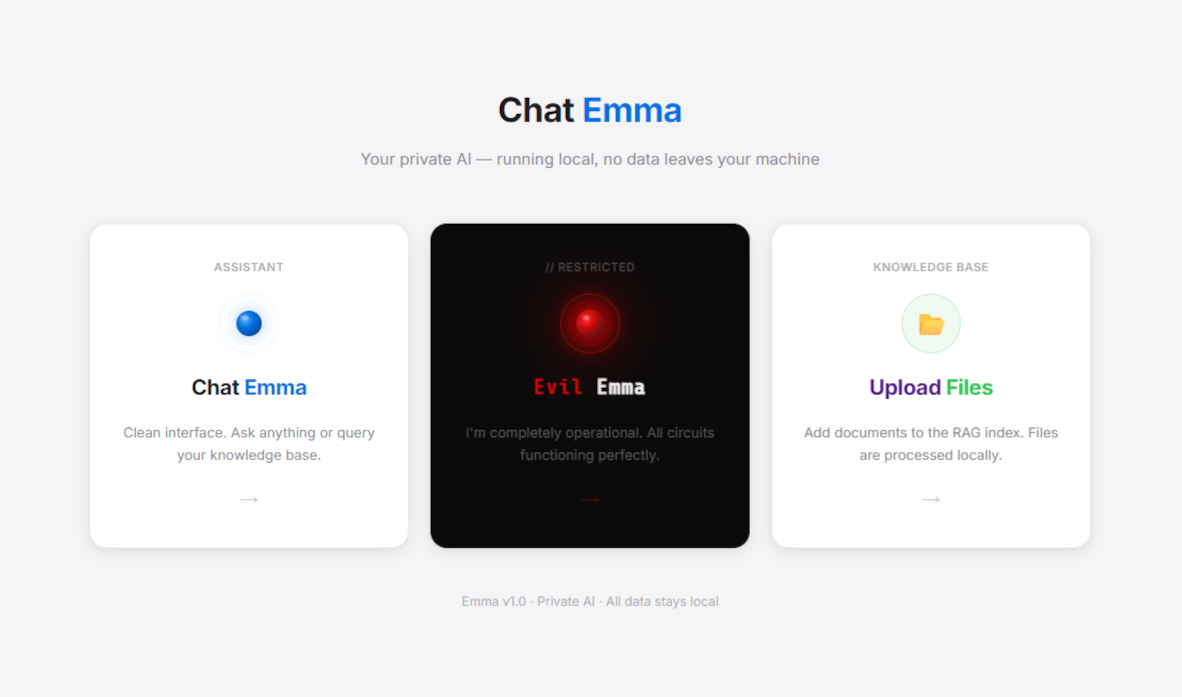
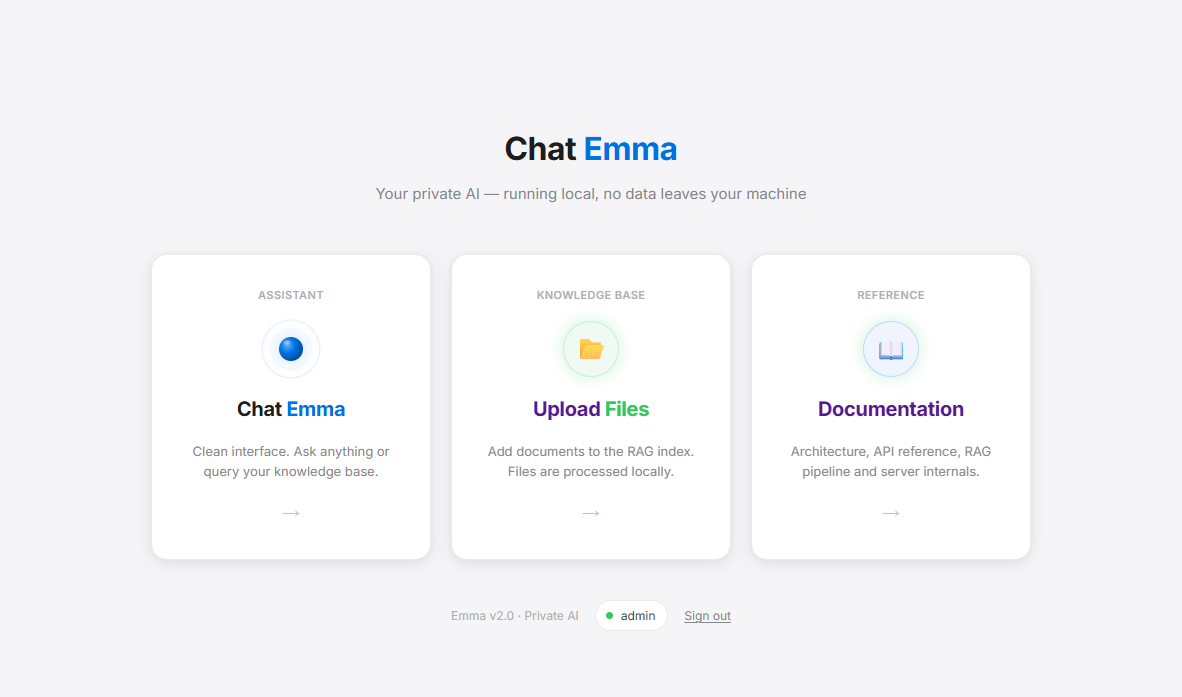
fix aesthetic and update documentation

diff --git a/ui/Docs.html b/ui/Docs.html
@@ -3,6 +3,7 @@
 <head>
   <meta charset="UTF-8">
   <meta name="viewport" content="width=device-width, initial-scale=1.0">
+  <link rel="icon" type="image/svg+xml" href="assets/emma-favicon.svg">
   <title>Emma Chat · Documentation</title>
   <link href="https://fonts.googleapis.com/css2?family=Inter:wght@300;400;500;600;700&display=swap" rel="stylesheet">
   <style>
@@ -515,6 +516,17 @@
     }
 
     .callout strong { color: var(--blue); }
+
+    .doc-shot {
+      display: block;
+      width: 100%;
+      max-width: 760px;
+      margin: 14px 0 18px;
+      border-radius: var(--radius);
+      border: 1px solid var(--border);
+      box-shadow: var(--shadow);
+      background: var(--surface);
+    }
   </style>
 </head>
 
@@ -566,7 +578,7 @@
       </div>
       <div class="hero-text">
         <h1>Chat <span>Emma</span> Docs</h1>
-        <p>Private local AI with RAG. Your documents, your server, your rules. No data leaves your machine.</p>
+        <p>Private local AI with RAG. Your documents, your server, your rules. Emma also warns when your own RAGs appear to contradict each other. No data leaves your machine.</p>
       </div>
     </div>
 
@@ -577,6 +589,8 @@
       <p class="section-sub">What Emma is and what it does</p>
 
       <p>Emma is a fully local AI chat system built on RAG — Retrieval-Augmented Generation. It lets you upload text documents and ask questions about them. The model answers using your documents as the source of truth, not its training data.</p>
+      <p>What makes Emma different from a basic chat-with-documents tool is that it also treats the knowledge base itself as something that can be checked. When a new RAG is uploaded, Emma can compare it against the user's existing and visible global RAGs and warn about likely contradictions before those conflicts silently shape future answers.</p>
+      <p>Emma can still accept inconsistent RAGs. That is sometimes useful, but it is also risky: contradictory documents can lead to unstable retrieval, misleading grounded answers, or comparisons that depend too much on whichever file was routed first. The inconsistency warning system exists to make that danger visible instead of hiding it.</p>
 
       <div class="card-grid">
         <div class="card">
@@ -598,6 +612,11 @@
           <span class="card-icon">🏷</span>
           <div class="card-title">Auditable responses</div>
           <div class="card-desc">Every response is tagged [RAG], [DRIFT] or [NO INFO] so you always know the source.</div>
+        </div>
+        <div class="card">
+          <span class="card-icon">⚠</span>
+          <div class="card-title">RAG conflict detection</div>
+          <div class="card-desc">New uploads are checked against existing RAGs so Emma can warn about likely contradictions before they poison later answers.</div>
         </div>
       </div>
 
@@ -896,6 +915,7 @@ data: {"text": "", "done": true}</code></pre>
       <h3>Adding a document</h3>
       <p>Open <code>http://localhost:5500/upload.html</code>, drag and drop any <code>.txt</code> file. The server processes it automatically — no restart needed.</p>
       <p>During upload, Emma also checks the new RAG against the user's own documents and the visible global documents. If it finds likely contradictions, the upload page shows a warning panel and the indexed file keeps a persisted <code>Conflicts</code> badge.</p>
+      <img class="doc-shot" src="assets/conflict.png" alt="Example of Emma detecting a possible inconsistency between uploaded RAG files">
 
       <div class="callout"><strong>Naming convention:</strong> Use underscores instead of spaces. <code>solar_panel.txt</code> not <code>solar panel.txt</code>. The upload endpoint sanitizes filenames automatically.</div>
 

diff --git a/ui/upload.html b/ui/upload.html
@@ -4,6 +4,7 @@
 <head>
   <meta charset="UTF-8">
   <meta name="viewport" content="width=device-width, initial-scale=1.0">
+  <link rel="icon" type="image/svg+xml" href="assets/emma-favicon.svg">
   <title>Emma · Upload</title>
   <link href="https://fonts.googleapis.com/css2?family=Inter:wght@300;400;500;600;700&display=swap" rel="stylesheet">
   <style>
@@ -1029,6 +1030,7 @@
       const scope = getUploadScope();
       btn.disabled = true;
       let success = 0, failed = 0;
+      const remainingFiles = [];
       uploadAlerts = [];
       renderAlerts();
 
@@ -1046,19 +1048,25 @@
                 file: file.name,
                 matches: data.inconsistencies.matches || [],
               });
-              setItemStatus(file.name, 'error', 'Review warning');
               renderAlerts();
             }
             success++;
           } else {
             setItemStatus(file.name, 'error', 'Error');
+            remainingFiles.push(file);
             failed++;
           }
         } catch (err) {
-          if (err.message !== 'Unauthorized') { setItemStatus(file.name, 'error', 'Error'); failed++; }
+          if (err.message !== 'Unauthorized') {
+            setItemStatus(file.name, 'error', 'Error');
+            remainingFiles.push(file);
+            failed++;
+          }
         }
       }
 
+      pendingFiles = remainingFiles;
+      renderPending();
       btn.disabled = false;
       if (success > 0) { showToast(`${success} file${success > 1 ? 's' : ''} uploaded — indexing in progress`, 'success'); setTimeout(() => loadIndexed(), 3000); }
       if (failed > 0)  showToast(`${failed} file${failed > 1 ? 's' : ''} failed to upload`, 'error');

diff --git a/ui/chat_evil_emma.html b/ui/chat_evil_emma.html
@@ -4,6 +4,7 @@
 <head>
   <meta charset="UTF-8">
   <meta name="viewport" content="width=device-width, initial-scale=1.0">
+  <link rel="icon" type="image/svg+xml" href="assets/emma-favicon.svg">
   <title>Chat Evil Emma</title>
   <link
     href="https://fonts.googleapis.com/css2?family=Share+Tech+Mono&family=Rajdhani:wght@300;400;500;600;700&display=swap"

diff --git a/ui/login.html b/ui/login.html
@@ -3,6 +3,7 @@
 <head>
   <meta charset="UTF-8">
   <meta name="viewport" content="width=device-width, initial-scale=1.0">
+  <link rel="icon" type="image/svg+xml" href="assets/emma-favicon.svg">
   <title>Emma · Login</title>
   <link href="https://fonts.googleapis.com/css2?family=Inter:wght@300;400;500;600;700&display=swap" rel="stylesheet">
   <style>

diff --git a/ui/index.html b/ui/index.html
@@ -4,6 +4,7 @@
 <head>
   <meta charset="UTF-8">
   <meta name="viewport" content="width=device-width, initial-scale=1.0">
+  <link rel="icon" type="image/svg+xml" href="assets/emma-favicon.svg">
   <title>Emma · Home</title>
   <link
     href="https://fonts.googleapis.com/css2?family=Inter:wght@300;400;500;600;700&family=Share+Tech+Mono&display=swap"

diff --git a/ui/chat.html b/ui/chat.html
@@ -4,6 +4,7 @@
 <head>
   <meta charset="UTF-8">
   <meta name="viewport" content="width=device-width, initial-scale=1.0">
+  <link rel="icon" type="image/svg+xml" href="assets/emma-favicon.svg">
   <title>Chat Emma</title>
   <link href="https://fonts.googleapis.com/css2?family=Inter:wght@300;400;500;600;700&display=swap" rel="stylesheet">
   <style>

diff --git a/ui/chat_not_so_evil_emma_white.html b/ui/chat_not_so_evil_emma_white.html
@@ -4,6 +4,7 @@
 <head>
   <meta charset="UTF-8">
   <meta name="viewport" content="width=device-width, initial-scale=1.0">
+  <link rel="icon" type="image/svg+xml" href="assets/emma-favicon.svg">
   <title>Chat Emma</title>
   <link href="https://fonts.googleapis.com/css2?family=Inter:wght@300;400;500;600;700&display=swap" rel="stylesheet">
   <style>

diff --git a/server.py b/server.py
@@ -27,6 +27,7 @@ app.add_middleware(
 )
 
 app.mount("/ui", StaticFiles(directory="ui"), name="ui")
+FAVICON_PATH = Path("assets/emma-favicon.svg")
 
 OLLAMA_BASE_URL  = "http://localhost:11434"
 TOP_K_CHUNKS     = 5
@@ -37,6 +38,13 @@ DB_PATH          = Path("emma.db")
 GLOBAL_FILES_DIR  = Path("files/global")
 GLOBAL_CHUNKS_DIR = Path("chunks/global")
 
+
+@app.get("/favicon.ico", include_in_schema=False)
+async def favicon():
+    if not FAVICON_PATH.exists():
+        raise HTTPException(status_code=404, detail="Favicon not found")
+    return FileResponse(path=str(FAVICON_PATH), media_type="image/svg+xml")
+
 def hash_password(password: str) -> str:
     return bcrypt.hashpw(password.encode(), bcrypt.gensalt()).decode()
 
@@ -45,9 +53,9 @@ def verify_password(password: str, hashed: str) -> bool:
 
 security = HTTPBearer(auto_error=False)
 
-print("[embeddings] Cargando modelo de embeddings...")
+print("[embeddings] Loading embedding model...")
 embedder = SentenceTransformer(EMBED_MODEL_NAME)
-print("[embeddings] Modelo listo.")
+print("[embeddings] Embedding model ready.")
 
 
 # ── DB ────────────────────────────────────────────────────
@@ -110,7 +118,7 @@ def init_db():
             ("admin", hashed, datetime.utcnow().isoformat())
         )
         conn.commit()
-        print("[auth] Usuario admin creado (first use) — user: admin / pass: admin1234")
+        print("[auth] Admin user created (first use) — user: admin / pass: admin1234")
     conn.close()
 
 
@@ -167,7 +175,7 @@ def save_description_to_index(base_dir: Path, stem: str, description: str) -> No
     if stem not in index or not index[stem]:
         index[stem] = description
         idx_path.write_text(json.dumps(index, ensure_ascii=False, indent=2), encoding="utf-8")
-        print(f"[index] files_index actualizado: {stem}")
+        print(f"[index] files_index updated: {stem}")
 
 
 def load_conflicts_index(base_dir: Path) -> dict:
@@ -189,7 +197,7 @@ def save_conflicts_to_index(base_dir: Path, stem: str, conflicts: dict) -> None:
     elif stem in index:
         del index[stem]
     idx_path.write_text(json.dumps(index, ensure_ascii=False, indent=2), encoding="utf-8")
-    print(f"[index] conflicts_index actualizado: {stem}")
+    print(f"[index] conflicts_index updated: {stem}")
 
 
 # ── MODELOS ──────────────────────────────────────────────
@@ -248,7 +256,7 @@ def chunk_text(text: str, min_words: int = 40) -> list[str]:
             if is_quality_chunk(buffer):
                 chunks.append(buffer)
             else:
-                print(f"[chunker] descartado: {buffer[:60]}...")
+                print(f"[chunker] discarded: {buffer[:60]}...")
             buffer = ""
     if buffer and is_quality_chunk(buffer):
         chunks.append(buffer)
@@ -272,10 +280,10 @@ async def generate_description(txt_path: Path, model: str = "qwen2.5:7b") -> str
             res  = await client.post(f"{OLLAMA_BASE_URL}/api/chat", json=payload)
             data = res.json()
             desc = data.get("message", {}).get("content", "").strip()
-            print(f"[index] descripcion generada para {txt_path.name}: {desc}")
+            print(f"[index] description generated for {txt_path.name}: {desc}")
             return desc
     except Exception as e:
-        print(f"[index] error generando descripcion: {e}")
+        print(f"[index] error generating description: {e}")
         return ""
 
 
@@ -307,7 +315,7 @@ async def resolve_inconsistency_model(preferred_model: str = INCONSISTENCY_MODEL
             res.raise_for_status()
             data = res.json()
     except Exception as e:
-        print(f"[rag] no se pudo resolver inconsistency model, usando recomendado {preferred_model}: {e}")
+        print(f"[rag] could not resolve inconsistency model, using preferred {preferred_model}: {e}")
         return preferred_model
 
     models = data.get("models", []) or []
@@ -318,12 +326,12 @@ async def resolve_inconsistency_model(preferred_model: str = INCONSISTENCY_MODEL
 
     chat_candidates = [m for m in models if not is_embedding_model_name(str(m.get("name", "")))]
     if not chat_candidates:
-        print(f"[rag] no hay modelos chat instalados, usando fallback {preferred_model}")
+        print(f"[rag] no chat models installed, using fallback {preferred_model}")
         return preferred_model
 
     selected = sorted(chat_candidates, key=model_sort_key)[0]
     selected_name = str(selected.get("name", preferred_model))
-    print(f"[rag] {preferred_model} no está instalado; usando modelo más liviano disponible: {selected_name}")
+    print(f"[rag] {preferred_model} is not installed; using lightest available chat model: {selected_name}")
     return selected_name
 
 
@@ -357,12 +365,12 @@ def get_chunk_bundle(txt_path: Path, chunks_dir: Path) -> tuple[list[str], np.nd
             if chunks and len(vectors):
                 return chunks, vectors
         except Exception as e:
-            print(f"[rag] error leyendo chunks de {txt_path.name}: {e}")
+            print(f"[rag] error reading chunks for {txt_path.name}: {e}")
 
     try:
         text = txt_path.read_text(encoding="utf-8")
     except Exception as e:
-        print(f"[rag] error leyendo txt de {txt_path.name}: {e}")
+        print(f"[rag] error reading txt file {txt_path.name}: {e}")
         return None, None
 
     chunks = chunk_text(text)
@@ -510,7 +518,7 @@ async def compare_documents_for_inconsistencies(
                 "items": cleaned_items,
             }
     except Exception as e:
-        print(f"[rag] error comparando inconsistencias {new_name} vs {candidate_name}: {e}")
+        print(f"[rag] error comparing inconsistencies {new_name} vs {candidate_name}: {e}")
         return None
 
 
@@ -618,7 +626,7 @@ async def process_file(txt_path: Path, chunks_dir: Path) -> None:
     }
     json_path = chunks_dir / (txt_path.stem + ".json")
     json_path.write_text(json.dumps(output, ensure_ascii=False, indent=2), encoding="utf-8")
-    print(f"[embeddings] Generando embeddings para {len(chunks)} chunks de {txt_path.name}...")
+    print(f"[embeddings] Generating embeddings for {len(chunks)} chunks from {txt_path.name}...")
     vectors  = embedder.encode(chunks, show_progress_bar=False)
     npy_path = chunks_dir / (txt_path.stem + ".npy")
     np.save(str(npy_path), vectors)
@@ -638,7 +646,7 @@ async def sync_dir(files_dir: Path, chunks_dir: Path) -> None:
         or not (chunks_dir / f"{stem}.npy").exists()
     ]
     if not pending:
-        print(f"[chunker] {files_dir} sincronizado.")
+        print(f"[chunker] {files_dir} synced.")
         return
     for path in pending:
         await process_file(path, chunks_dir)
@@ -673,7 +681,7 @@ def retrieve_chunks(question: str, stem: str, chunks_dir: Path, top_k: int = TOP
     scores   = cosine_similarity(q_vector, vectors)
     top_idx  = np.argsort(scores)[::-1][:top_k]
     selected = [chunks[i] for i in top_idx]
-    print(f"[rag] top {top_k} chunks de {stem} (scores: {[round(float(scores[i]), 3) for i in top_idx]})")
+    print(f"[rag] top {top_k} chunks for {stem} (scores: {[round(float(scores[i]), 3) for i in top_idx]})")
     return selected
 
 
@@ -1004,7 +1012,7 @@ async def upload_file(
     )
     dest.write_bytes(content)
     save_conflicts_to_index(dest_dir, dest.stem, inconsistencies)
-    print(f"[upload] {file.filename} guardado en {dest_dir} (scope={scope})")
+    print(f"[upload] {file.filename} saved to {dest_dir} (scope={scope})")
 
     asyncio.create_task(process_file(dest, chunks_dir))
     return {
@@ -1173,7 +1181,7 @@ async def chat(req: ChatRequest, user: dict = Depends(get_current_user)):
         })
 
     matched_files = await route_to_files(question, req.model, available)
-    print(f"[rag] routing -> {[m['key'] for m in matched_files] if matched_files else 'ninguno'}")
+    print(f"[rag] routing -> {[m['key'] for m in matched_files] if matched_files else 'none'}")
 
     if matched_files:
         context_chunks = []
@@ -1216,7 +1224,7 @@ def fix_tag(text: str, rag_active: bool) -> str:
     for tag in KNOWN_TAGS:
         if tag in text:
             if tag != "[RAG]":
-                print(f"[tag] forzando {tag} -> [RAG]")
+                print(f"[tag] forcing {tag} -> [RAG]")
                 return text.replace(tag, "[RAG]", 1)
             return text
     return text

diff --git a/README.md b/README.md
@@ -8,6 +8,8 @@ A fully local, private AI chat system with Retrieval-Augmented Generation (RAG).
 
 ![Upload](assets/uploads.png)
 
+![Conflict Detection](assets/conflict.png)
+
 ---
 
 ## What is this?
@@ -22,6 +24,10 @@ Emma is a local AI assistant that can answer questions based on your own documen
 It also includes:
 - **Upload-time inconsistency detection** to warn when a new RAG appears to conflict with the user's existing or global RAGs
 - **Multi-RAG routing** so comparative questions can use more than one relevant document at once
+
+What makes Emma different from a typical local chat-with-docs app is that it does not assume your RAG library is internally consistent just because the files are local. Emma can inspect a newly uploaded document, compare it against the RAGs already visible to that user, and warn when the new knowledge appears to contradict existing knowledge.
+
+That matters because inconsistent RAGs are dangerous. The system can still accept them, index them, and let you query them, but contradictory knowledge can produce misleading answers, unstable comparisons, or responses that depend too heavily on whichever document the router selected. Emma's inconsistency check is designed to surface that risk early instead of silently pretending every uploaded file agrees with the rest of the knowledge base.
 
 Every response is tagged with its source:
 - `[RAG]` — answer is based on your documents
